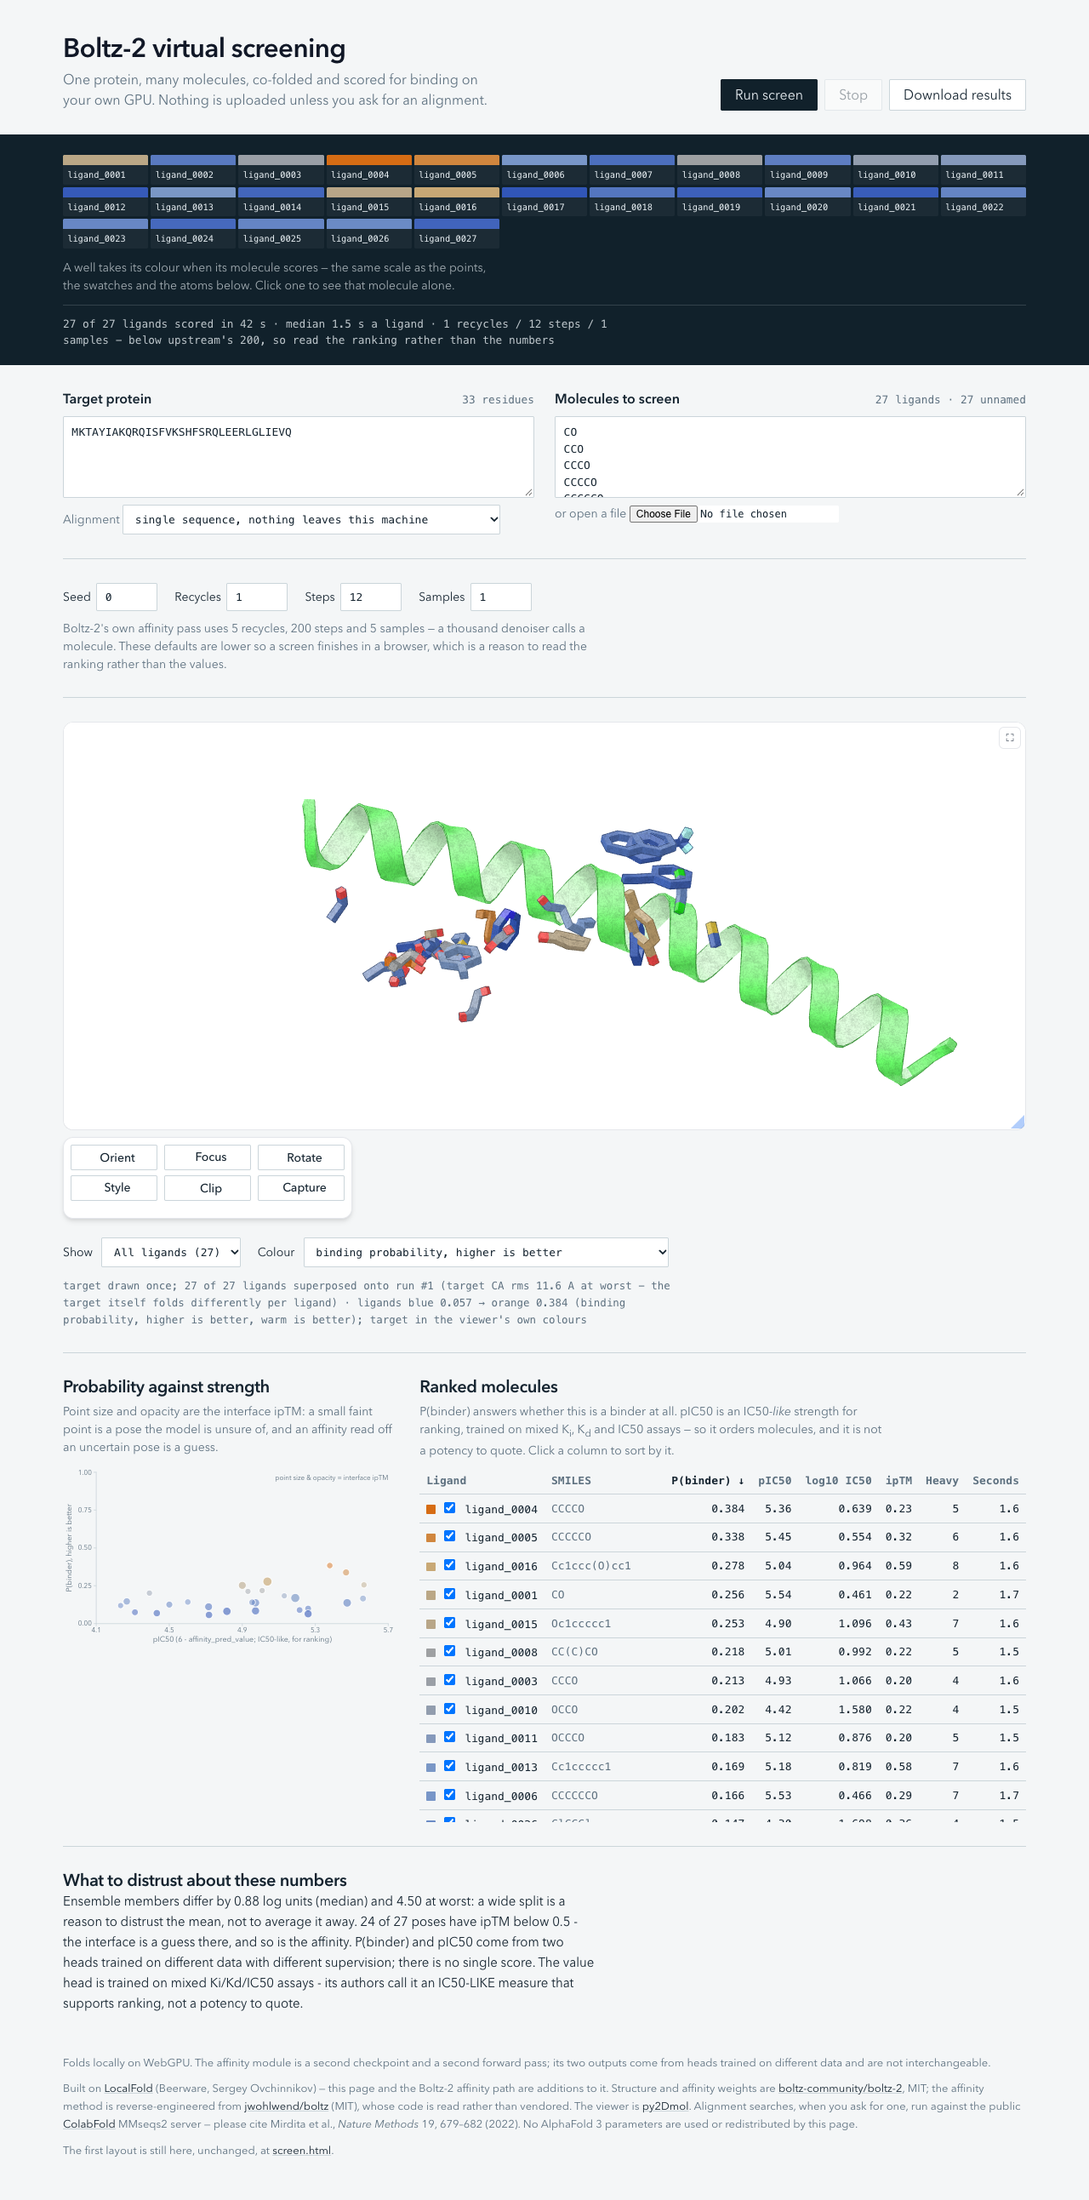
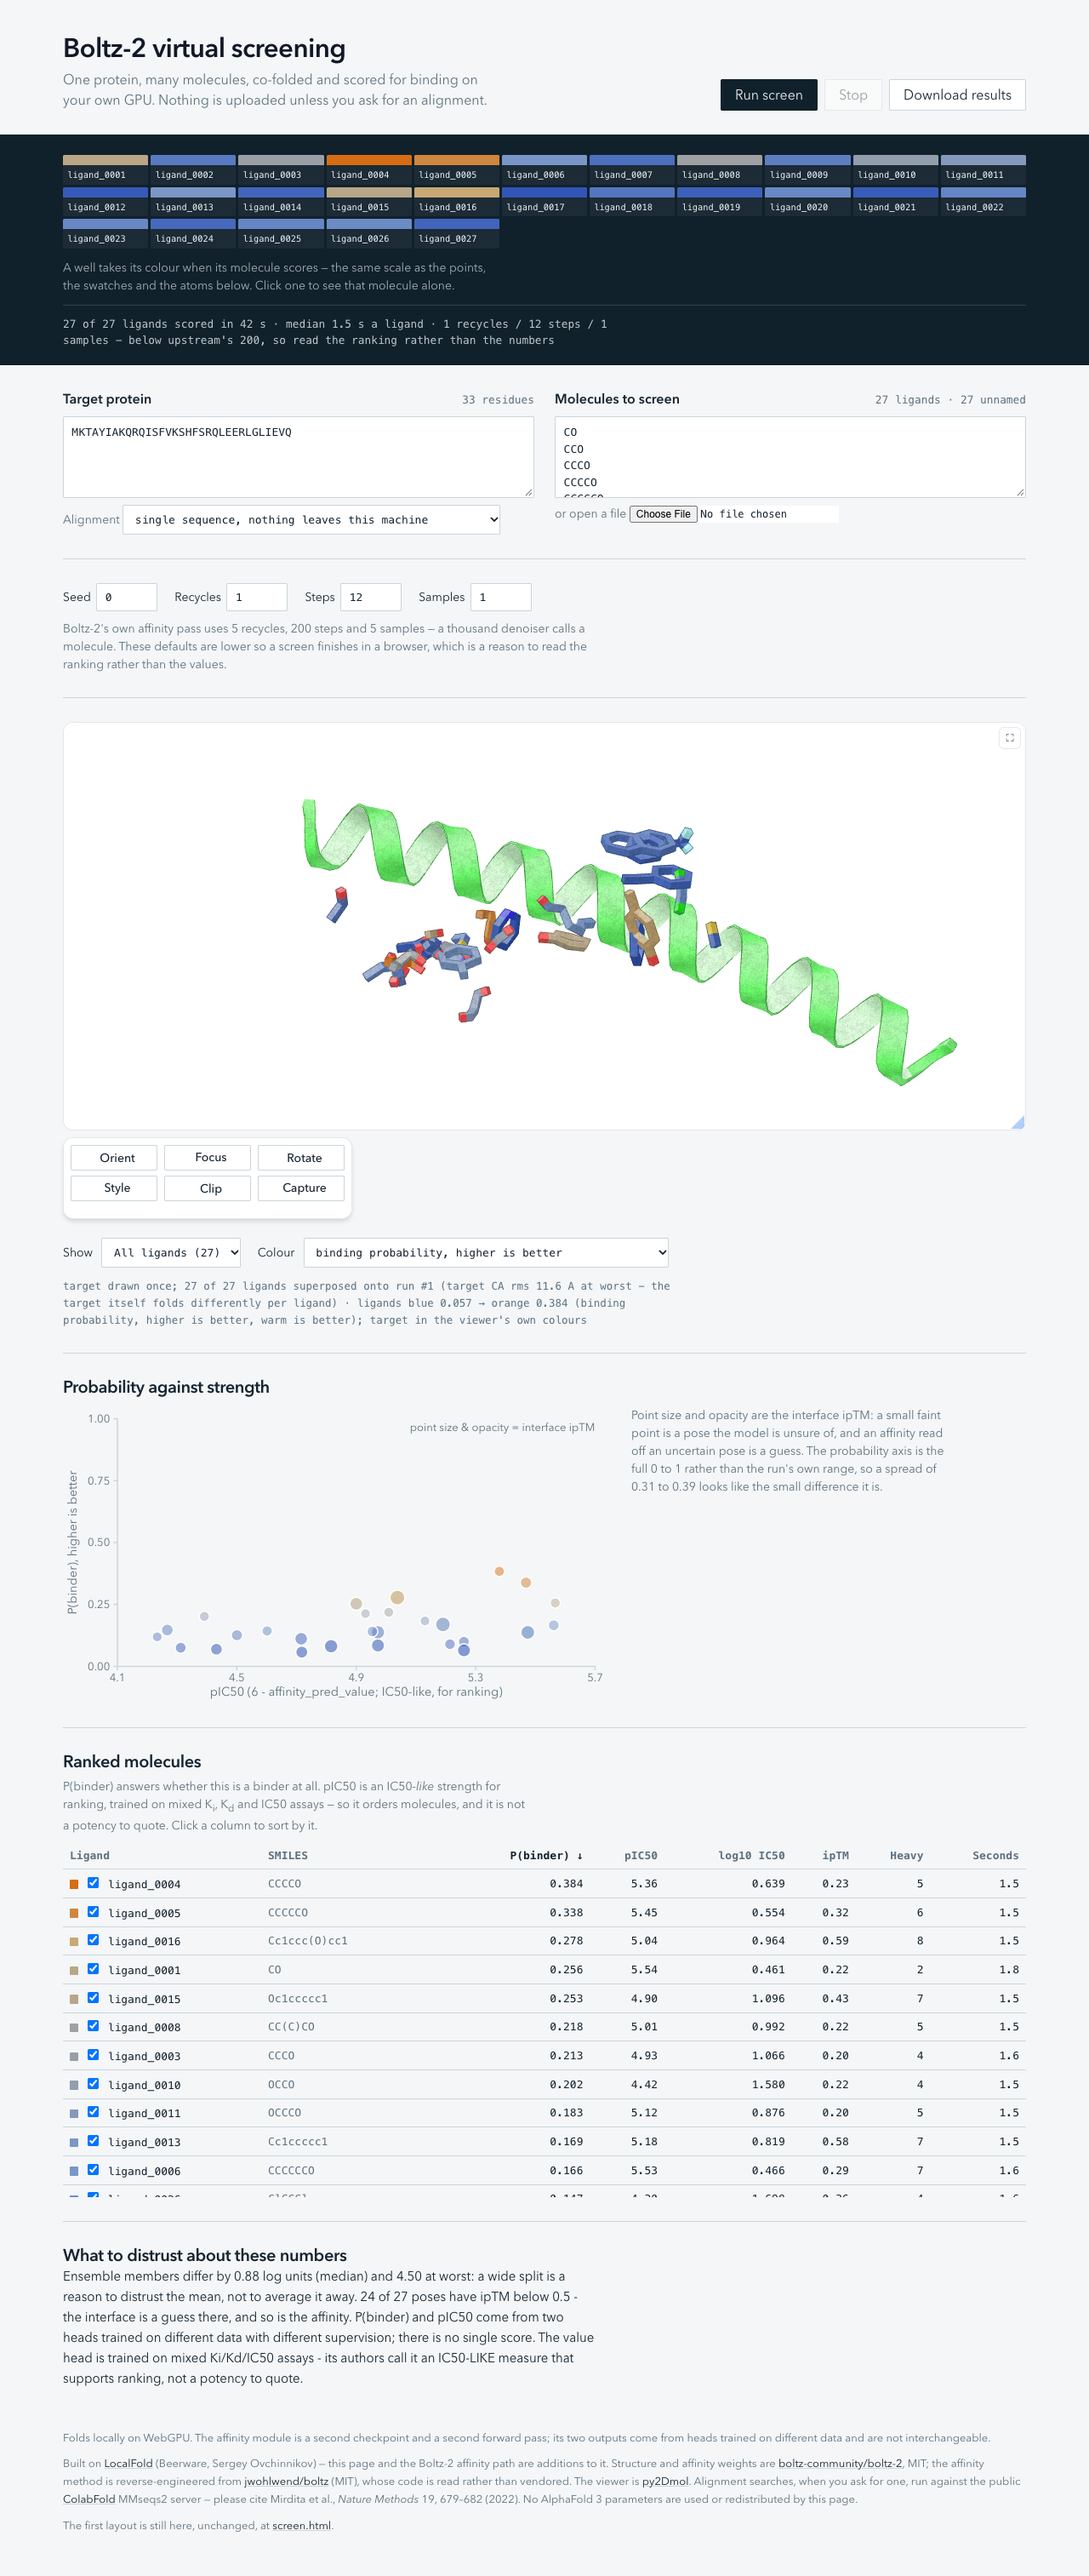
Give the plot room: 1fr has an auto minimum, so the table starved it
The scatter came out about 200px of 1280 on a reader's own screen, with axis
labels nobody could read, while the table beside it was comfortable.

🔴 `1fr` IS `minmax(auto, 1fr)`, SO A TRACK NEVER SHRINKS BELOW ITS CONTENT'S
MIN-CONTENT WIDTH. `grid-template-columns: 6fr 7fr` therefore never applied:
the table's cells are `white-space: nowrap`, and a screen of approved drugs
puts `atazanavir_#_HIV-1_PR_inhibitor` in one cell and a 51-atom SMILES in
the next, so its minimum was most of the row. The ratio was never the
problem - the floor was - and no ratio would have fixed it.

They are stacked now. The plot takes 640px of the full measure, with the
note that explains it beside it; the table gets the whole measure, which is
what eight numeric columns and a SMILES want, and no longer needs to scroll
sideways. 640 is a cap rather than a fraction because the scatter draws in a
fixed 440x240 space and scales with its box: the full 1180 would blow its
10px axis labels up to 27px. `.plot-row` is
`minmax(0, 640px) minmax(0, 1fr)`, and the explicit zero minimums are the
whole reason it is written that way.

🔴 AND MY OWN SCREENSHOT HAD THE SAME DEFECT IN IT WHILE I CALLED THE PAGE
FINISHED. The 27-ligand probe run uses `ligand_0007` ids, which keep the
table's minimum small enough that the plot looked cramped rather than
broken. A layout checked only with synthetic names is a layout checked at
its easiest width - so this was re-run with real drug names and long SMILES
[…]

diff --git a/bench.html b/bench.html
@@ -566,19 +566,32 @@ turns on: a virtual screen IS a plate, so the plate is the page.
         run is superposed on the first run's alpha carbons before it is drawn.</p>
     </section>
 
-    <div class="band results">
-      <section>
-        <div class="panel-head">
-          <h2>Probability against strength</h2>
-          <p class="panel-note">Point size and opacity are the interface ipTM:
-            a small faint point is a pose the model is unsure of, and an
-            affinity read off an uncertain pose is a guess.</p>
-        </div>
+    <!-- 🔴 THE PLOT AND THE TABLE ARE STACKED, NOT SIDE BY SIDE, and the
+         measurement is why. As two grid columns the plot was squeezed to about
+         200px of 1280 with axis labels nobody could read, because `6fr 7fr` is
+         really `minmax(auto, 6fr) minmax(auto, 7fr)` and a track never shrinks
+         below its content's min-content width: the table's cells are
+         `white-space: nowrap`, so a real screen - `atazanavir`,
+         `CC(C)(C)[C@@H](C(=O)N[C...` - gave it an enormous minimum and it took
+         the row. Full width, the plot gets its own 640px (capped so its
+         fixed 440x240 type stays near native scale) with the note beside it,
+         and the table gets the whole measure with no horizontal scroll. -->
+    <section class="band">
+      <div class="panel-head">
+        <h2>Probability against strength</h2>
+      </div>
+      <div class="plot-row">
         <svg id="scatter" viewBox="0 0 440 240" role="img"
           aria-label="binding probability against pIC50"></svg>
-      </section>
+        <p class="panel-note">Point size and opacity are the interface ipTM:
+          a small faint point is a pose the model is unsure of, and an
+          affinity read off an uncertain pose is a guess. The probability axis
+          is the full 0 to 1 rather than the run's own range, so a spread of
+          0.31 to 0.39 looks like the small difference it is.</p>
+      </div>
+    </section>
 
-      <section>
+    <section class="band">
         <div class="panel-head">
           <h2>Ranked molecules</h2>
           <!-- 🔴 BOTH OUTPUTS, LABELLED, NEVER MERGED. The two heads are
@@ -603,8 +616,7 @@ turns on: a virtual screen IS a plate, so the plate is the page.
             <tbody></tbody>
           </table>
         </div>
-      </section>
-    </div>
+    </section>
 
     <section class="band">
       <h2>What to distrust about these numbers</h2>

diff --git a/web/bench.css b/web/bench.css
@@ -322,10 +322,27 @@ input[type="file"] { border: 0; padding: 0; font-size: 0.75rem; }
 
 /* ---------- results --------------------------------------------------- */
 
-/* The scatter draws in a fixed 440x240 space and scales with its column, so a
-   narrow column shrinks its axis type too; 6/7 keeps it near its native size
-   while leaving the table room for eight numeric columns. */
-.results { display: grid; grid-template-columns: 6fr 7fr; gap: 1.75rem; }
+/* 🔴 `1fr` HAS AN `auto` MINIMUM, AND THAT IS WHAT STARVED THE PLOT. The scatter
+   and the table were `grid-template-columns: 6fr 7fr`, which is
+   `minmax(auto, 6fr) minmax(auto, 7fr)`: a track cannot shrink below its
+   content's min-content width, the table's cells are `white-space: nowrap`, and
+   a screen of real drugs - `atazanavir`, a 51-atom SMILES - gave it a minimum
+   of most of the row. Measured on a reader's own window: the plot came out
+   about 200px wide with axis labels nobody could read, while the table beside
+   it was comfortable. The ratio was never the problem; the floor was.
+
+   So they are stacked. The plot takes 640px of the full measure - a cap, not a
+   fraction, because it draws in a fixed 440x240 space and scales with its box,
+   so 1180 would blow its 10px axis type up to 27px - and the note that explains
+   it sits in the space beside it. The table gets the whole measure, which is
+   what a table of eight numeric columns and a SMILES wants. */
+.plot-row {
+  display: grid;
+  grid-template-columns: minmax(0, 640px) minmax(0, 1fr);
+  gap: 1.75rem;
+  align-items: start;
+}
+.plot-row .panel-note { margin-top: 0; max-width: 46ch; }
 .panel-head { margin-bottom: 0.625rem; }
 .panel-note {
   margin-top: 0.375rem;
@@ -502,7 +519,7 @@ footer p + p { margin-top: 0.625rem; }
   .masthead { padding: 1.75rem 1rem 1.25rem; align-items: flex-start; }
   h1 { font-size: 1.5rem; }
   .plate-inner, main, footer { padding-left: 1rem; padding-right: 1rem; }
-  .setup, .results { grid-template-columns: 1fr; gap: 1.25rem; }
+  .setup, .plot-row { grid-template-columns: 1fr; gap: 1.25rem; }
   #queue { grid-template-columns: repeat(auto-fill, minmax(4.75rem, 1fr)); }
   .readout { flex-direction: column; gap: 0.35rem; }
   #viewer-container .py2dmol-slot > .py2dmol-slot-body,

diff --git a/docs/BENCH-DESIGN.md b/docs/BENCH-DESIGN.md
@@ -237,8 +237,11 @@ Things considered and left undone, so they are not rediscovered:
   position is identity on a plate, and the table is what sorts - but a
   "sort the plate" control is a reasonable ask.
 - **The scatter's own type is 9-10px in a 440x240 viewBox** and scales with its
-  column, so it is small in a 6/13 column. Changing it means changing
-  `web/screen-view.js`, which both pages share.
+  box, so how big it is drawn is how big its labels are. It is capped at 640px
+  for that reason: the full 1180 measure would blow a 10px axis label up to
+  27px. If it ever needs to be wider than 640, the type sizes in
+  `web/screen-view.js` have to come down with it, and that file is shared with
+  `screen.html`.
 
 **And the pills took three attempts, two of which looked identical.** The
 viewer's six camera controls stayed in py2Dmol's grey through a rule on
@@ -257,3 +260,30 @@ have looked permanently off.
 🔴 **A screenshot cannot tell "the rule is wrong" from "the rule did not
 match".** When a style change appears to do nothing, read the computed value
 before changing the rule again.
+
+## A second critique round: the plot was 200px wide
+
+A reader's own screenshot, not mine, settled this one - and my screenshot had
+the same defect in it while I read the page as finished.
+
+The scatter and the ranked table were two columns of
+`grid-template-columns: 6fr 7fr`. On a real screen the plot came out about
+**200px of 1280**, with axis labels nobody could read and a two-line heading
+over a twenty-character column of prose, while the table beside it was
+comfortable.
+
+🔴 **`1fr` IS `minmax(auto, 1fr)`, SO A TRACK NEVER SHRINKS BELOW ITS CONTENT'S
+MIN-CONTENT WIDTH.** The table's cells are `white-space: nowrap`; a screen of
+approved drugs gives it `atazanavir_#_HIV-1_PR_inhibitor` in one cell and a
+51-atom SMILES in the next, so its minimum was most of the row and the fraction
+I had written never applied. **The ratio was never the problem - the floor
+was**, and no ratio would have fixed it. My own 27-ligand screenshot had short
+`ligand_0007` ids, which kept the table's minimum small enough that the plot
+looked merely cramped rather than broken: a layout tested only with synthetic
+names is a layout tested at its easiest width.
+
+They are stacked now. The plot takes 640px of the full measure - a cap rather
+than a fraction, for the type-scaling reason above - with the note that explains
+it beside it, and the table gets the whole measure, which is what eight numeric
+columns and a SMILES want. `.plot-row` uses `minmax(0, 640px) minmax(0, 1fr)`,
+and the explicit zero minimums are the whole point of writing it that way.
